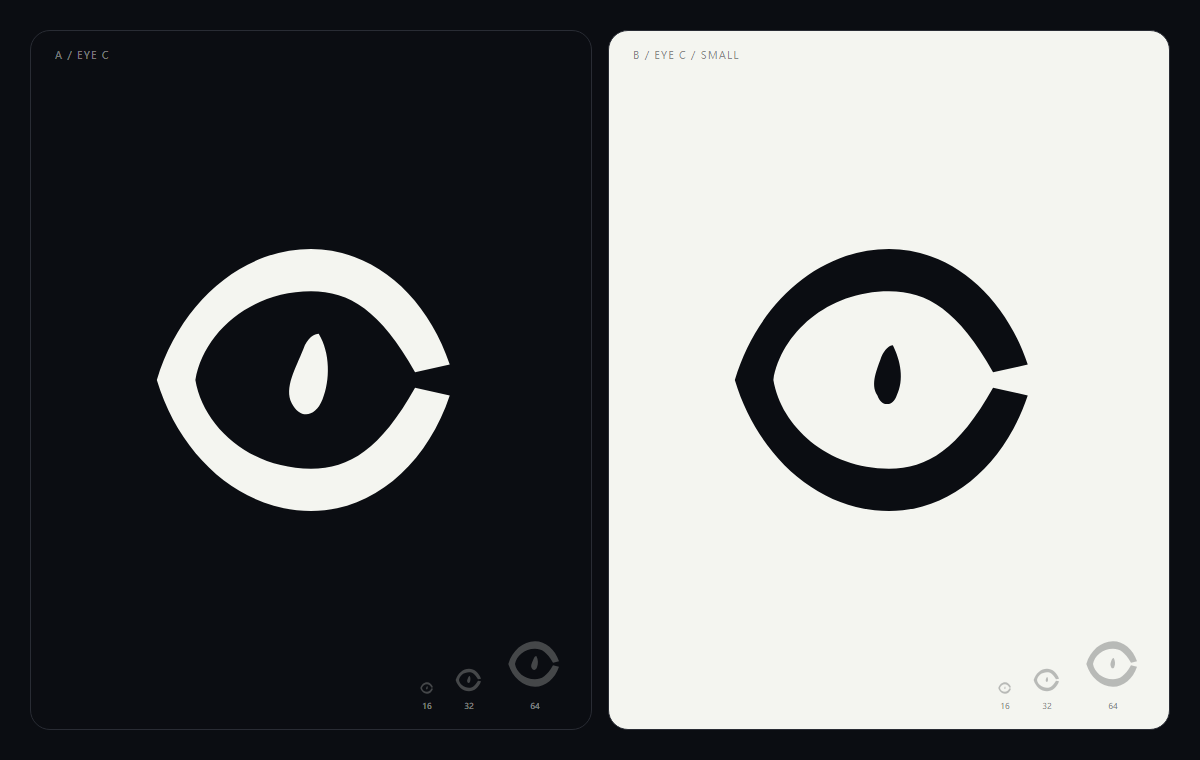
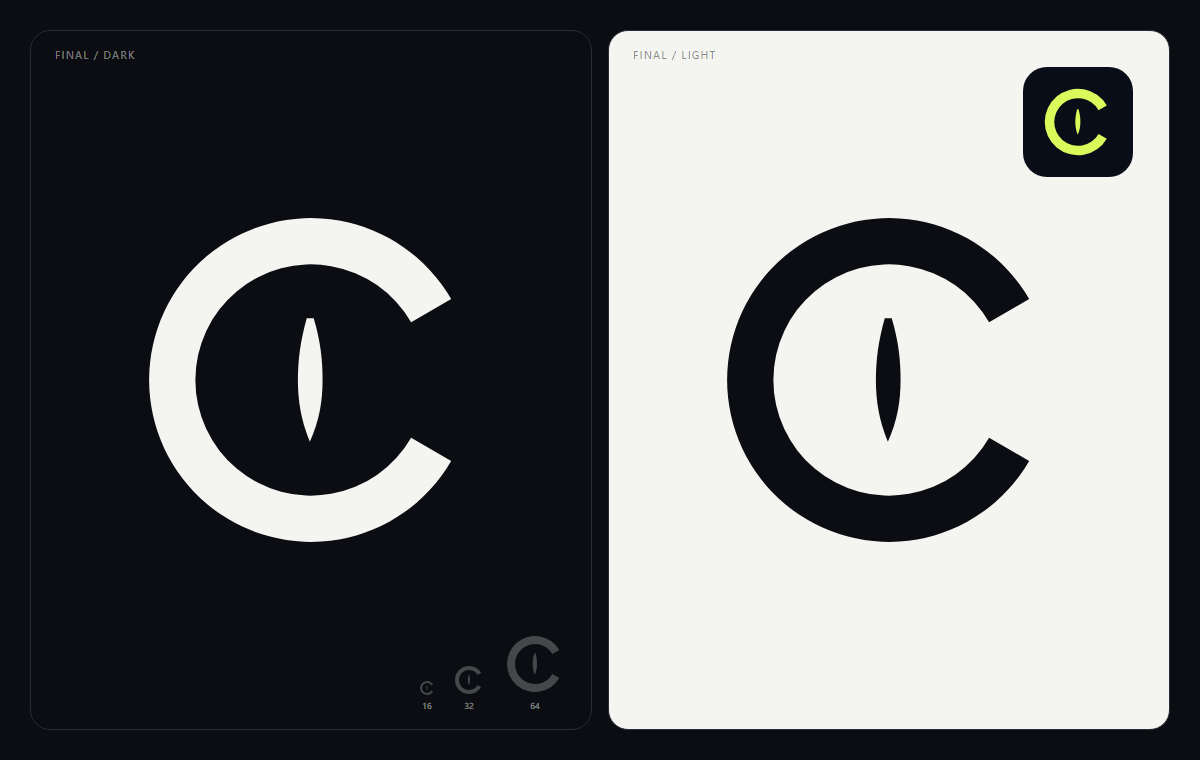
Tune lens pupil inside original C

diff --git a/components/BrandMark.tsx b/components/BrandMark.tsx
@@ -4,11 +4,11 @@ export function BrandMark({ className }: { className?: string }) {
       <path
         fill="currentColor"
         fillRule="evenodd"
-        d="M84 44 C78 26 64 14 48 14 C30 14 14 28 8 48 C14 68 30 82 48 82 C64 82 78 70 84 52 L75 50 C66 66 58 71 48 71 C32 71 20 60 18 48 C20 36 32 25 48 25 C58 25 66 30 75 46 Z"
+        d="M84.37 69 A42 42 0 1 1 84.37 27 L73.98 33 A30 30 0 1 0 73.98 63 Z"
       />
       <path
         fill="currentColor"
-        d="M50 36 C53 41 53 48 51 53 C49 58 45 58 43 54 C41 50 44 45 46 40 C47 37 49 36 50 36 Z"
+        d="M48.7 32 C50.5 38 51 43 51 48 C51 53.4 50.2 58.5 47.7 64 C45.4 58.5 44.6 53.4 44.6 48 C44.6 43 45.2 38 46.9 32 Z"
       />
     </svg>
   );
